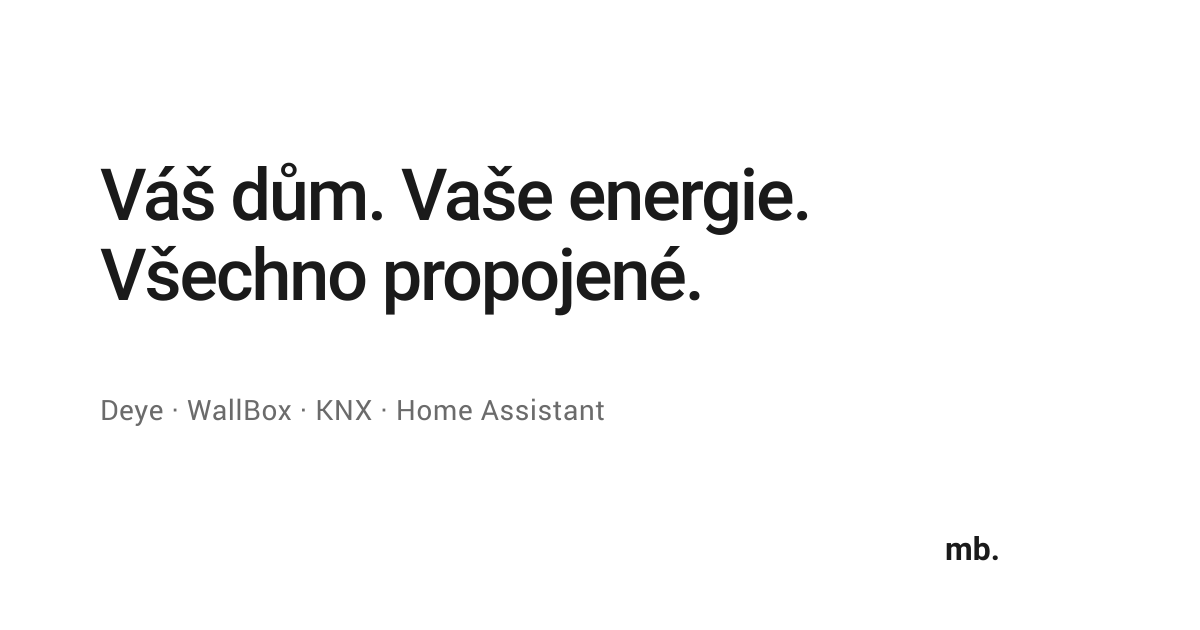
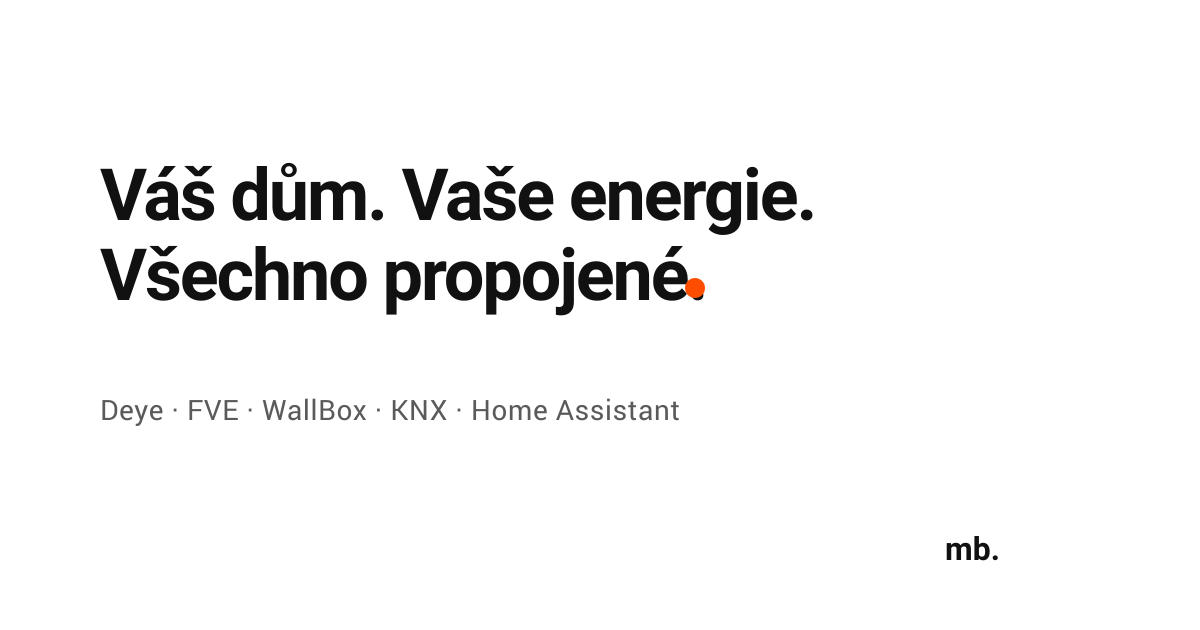
Reorder technologies, add signal-orange accent and scroll reveals
- New sequence: Deye → FVE → WallBox → KNX → Home Assistant
- Update hero lead to the new claim
- Introduce signal orange (#ff4d00) as primary accent
- Add lightweight scroll reveal animations via Intersection Observer
- Respect prefers-reduced-motion
- Regenerate OG image with new accent and order

Generated with [Devin](https://devin.ai)

diff --git a/src/styles/global.css b/src/styles/global.css
@@ -1,7 +1,7 @@
 /*
   Minimal, calm, confident — but visually charged.
   Light background, near-black typography, generous whitespace,
-  one quiet accent, thin rules, no gradients or decoration.
+  one signal-orange accent, thin rules, light scroll reveals.
 
   Core idea: huge type, tiny type, and the tension between them.
 */
@@ -15,7 +15,7 @@
   --rule: #e2e2e2;
   --accent: #111111;
   --accent-contrast: #ffffff;
-  --spot: #c4a26d; /* one warm, muted accent for occasional charge */
+  --spot: #ff4d00; /* signal orange */
   --radius: 0;
   --max-width: 80rem;
   --font: -apple-system, BlinkMacSystemFont, "Segoe UI", Roboto, "Helvetica Neue", Arial, sans-serif;
@@ -151,12 +151,13 @@ img {
   background: var(--accent);
   border: 1px solid var(--accent);
   cursor: pointer;
-  transition: transform 0.15s ease, background 0.15s ease, color 0.15s ease;
+  transition: transform 0.15s ease, background 0.15s ease, color 0.15s ease, border-color 0.15s ease;
 }
 
 .btn:hover {
-  background: var(--text-secondary);
-  border-color: var(--text-secondary);
+  background: var(--spot);
+  border-color: var(--spot);
+  color: var(--accent-contrast);
 }
 
 .btn:active {
@@ -192,15 +193,42 @@ img {
 }
 
 .link:hover {
-  border-color: var(--muted);
-  color: var(--text-secondary);
+  border-color: var(--spot);
+  color: var(--spot);
 }
 
 /* Big index numbers. */
 .index {
   font-size: clamp(3rem, 8vw, 7rem);
-  font-weight: 500;
+  font-weight: 600;
   letter-spacing: -0.05em;
   line-height: 0.9;
-  color: var(--rule);
+  color: var(--spot);
+  opacity: 0.7;
+}
+
+/* Scroll reveals — subtle, no motion if user prefers reduced motion. */
+.reveal {
+  opacity: 0;
+  transform: translateY(24px);
+  transition: opacity 0.7s cubic-bezier(0.16, 1, 0.3, 1), transform 0.7s cubic-bezier(0.16, 1, 0.3, 1);
+}
+
+.reveal.is-visible {
+  opacity: 1;
+  transform: translateY(0);
+}
+
+.stagger-1 { transition-delay: 0.05s; }
+.stagger-2 { transition-delay: 0.1s; }
+.stagger-3 { transition-delay: 0.15s; }
+.stagger-4 { transition-delay: 0.2s; }
+.stagger-5 { transition-delay: 0.25s; }
+
+@media (prefers-reduced-motion: reduce) {
+  .reveal {
+    opacity: 1;
+    transform: none;
+    transition: none;
+  }
 }
